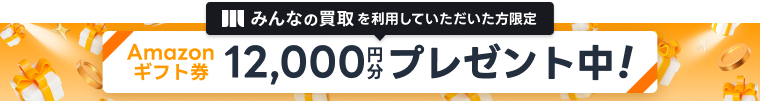
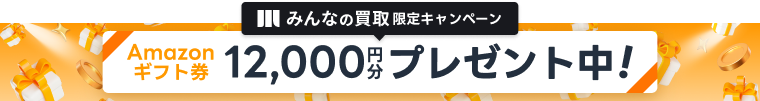
電話CTAのキャンペーンバナーを新デザインに差し替える
Figma「みんなの買取」202607_電話送客プロジェクトの更新に追従。
上部リボンの文言が「みんなの買取を利用していただいた方限定」から
「みんなの買取限定キャンペーン」に変わった。

- PC 用（760x101）と SP 用（381x143）を @2x とあわせて差し替え
  （コラム_PC 14131:49211 / コラム_SP 14140:42295 から書き出し）
- PC モーダル用（650x106）は Figma 側も変更が無いため据え置き
  （14140:37301 と現行ファイルが同一デザイン）
- 代替テキストを新しい文言に合わせる
- 配布のため Version を 1.10.1 に上げる

Changed region(s): [[0.2724, 0.0, 0.7263, 0.3861], [0.4842, 0.3564, 0.5145, 0.4158]]

diff --git a/inc/phone-cta/class-banners.php b/inc/phone-cta/class-banners.php
@@ -24,7 +24,7 @@ class Madoguchi_Blocks_Phone_Cta_Banners {
 		'kaitori'  => array(
 			'amazon-gift-12000' => array(
 				'label' => 'Amazonギフト券 12,000円分プレゼント中！',
-				'alt'   => 'みんなの買取を利用していただいた方限定 Amazonギフト券12,000円分プレゼント中！',
+				'alt'   => 'みんなの買取限定キャンペーン Amazonギフト券12,000円分プレゼント中！',
 				'pc'    => array( 'file' => 'banner-amazon-gift-12000.png', 'width' => 760, 'height' => 101 ),
 				'sp'    => array( 'file' => 'banner-amazon-gift-12000-sp.png', 'width' => 381, 'height' => 143 ),
 				'modal' => array( 'file' => 'banner-amazon-gift-12000-modal.png', 'width' => 650, 'height' => 106 ),

diff --git a/madoguchi-blocks.php b/madoguchi-blocks.php
@@ -2,7 +2,7 @@
 /**
  * Plugin Name:       Madoguchi Blocks（記事内コンテンツブロック集）
  * Description:        記事内に設置できるカスタムブロック集。チェックリスト型CTA・条件別カードリンク・買取業者比較テーブル・著者情報・口コミ。テーマ非依存で動作し、REST API 経由でもCSSを同梱して同一デザインを再現します。
- * Version:           1.10.0
+ * Version:           1.10.1
  * Requires at least: 6.6
  * Requires PHP:      7.4
  * Author:            Madoguchi Inc.
